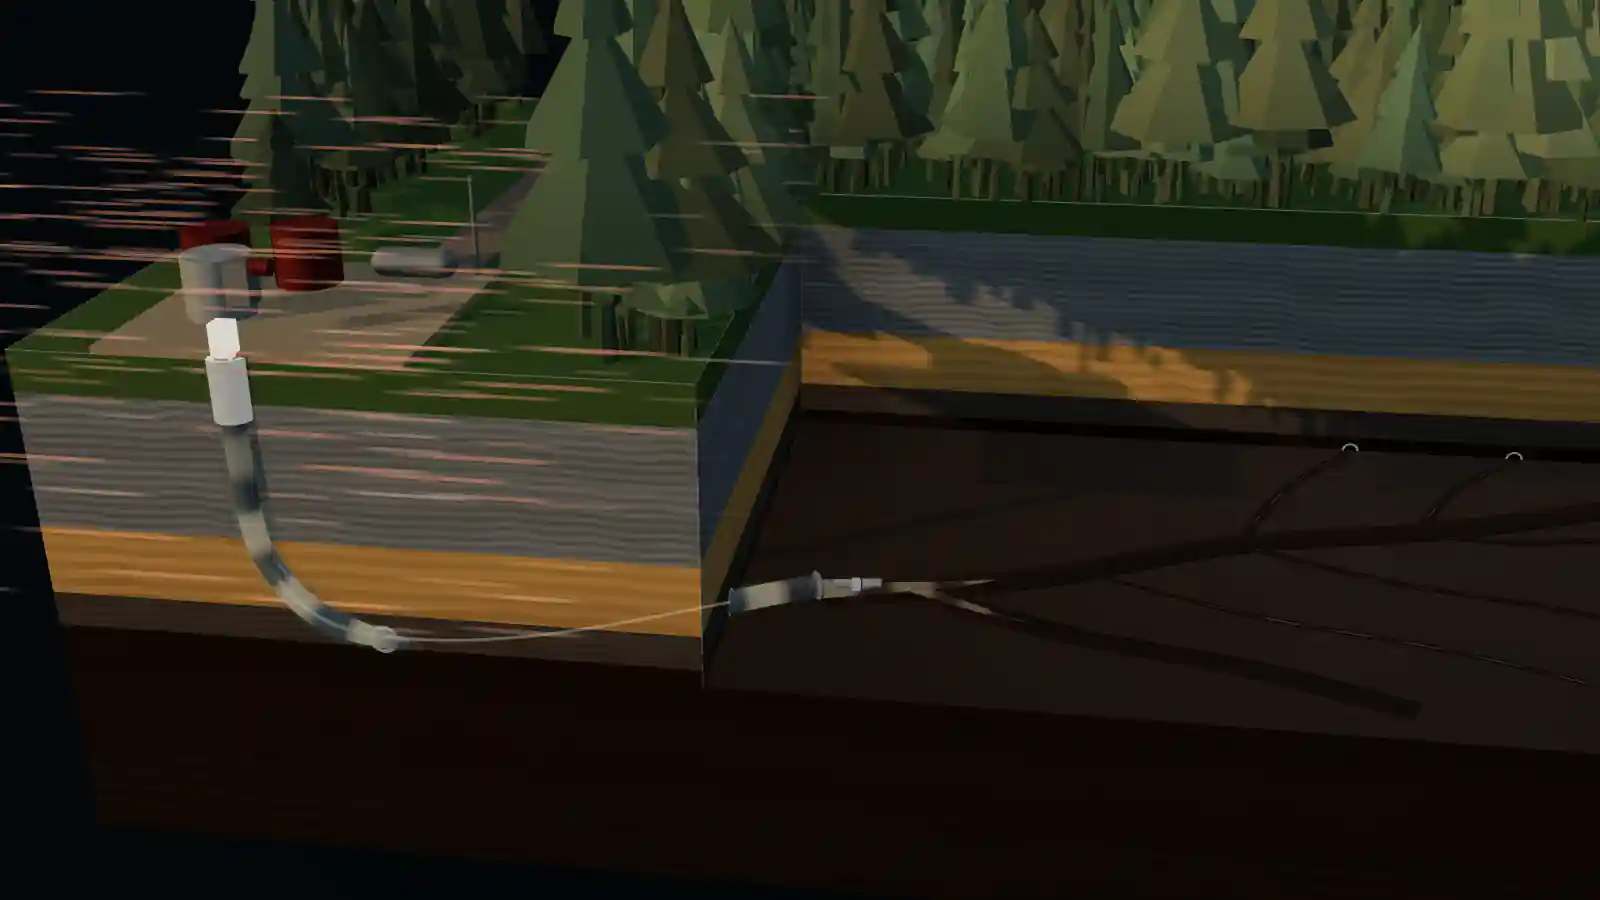
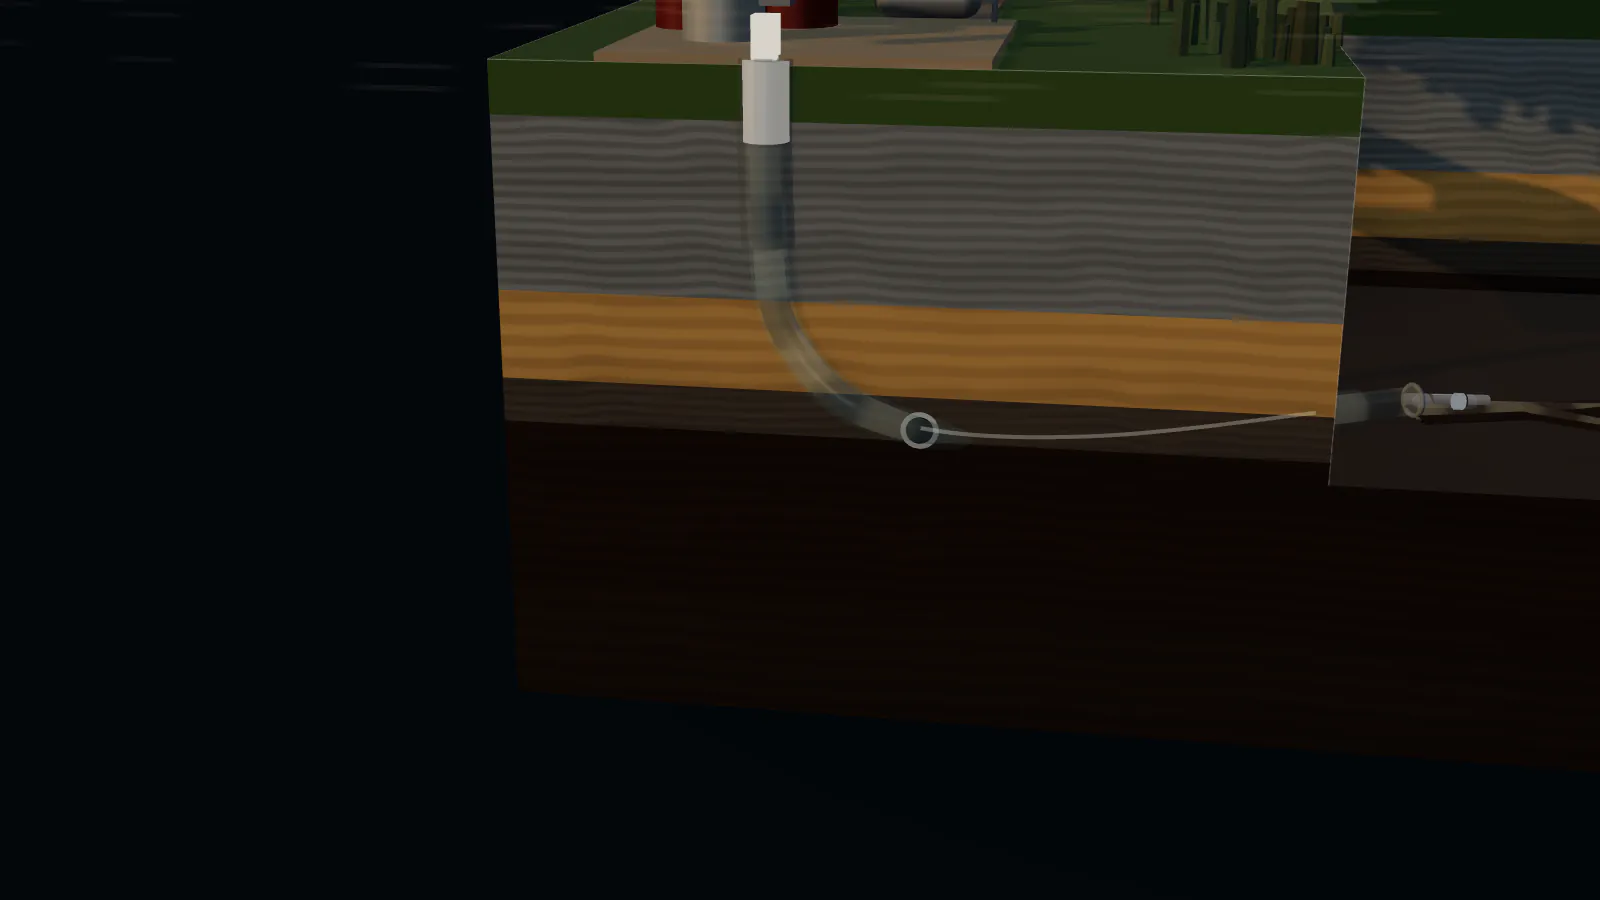
fix(world): round-6 — time-based easing everywhere (the loop drew ~40 % while the caption said closed), fit pose frames BOTH verdict placements (pose search), the candle casts a tight local light, standoff label hides when its line is off-screen, golden hour is authored rather than left to the 12 s 

diff --git a/src/world/island.js b/src/world/island.js
@@ -74,13 +74,21 @@ export function buildIsland({ tier = 'high', view = DEFAULT_WELLFI_VIEW } = {}) 
   let compact = false;
 
   // channels: { light, cutaway, candle, field, wind, flow, fog }
+  let lastElapsed = 0;
   function update(t, elapsed, channels, { reducedMotion = false } = {}) {
     const s = cycleState(t);
+    // Real elapsed time between frames: assuming 1/60 made every eased world state frame-rate dependent, so on a
+    // software renderer or a slow phone they converged an order of magnitude too slowly (round 6).
+    const dt = lastElapsed ? Math.min(0.25, Math.max(0, elapsed - lastElapsed)) : 1 / 60;
+    lastElapsed = elapsed;
     state.cycle = s;
     state.elapsed = elapsed;
     const L = channels.light;
-    sun.intensity = 0.1 + 2.7 * L * (0.55 + 0.45 * s.sun);
-    hemi.intensity = 0.16 + 0.75 * L * (0.6 + 0.4 * s.sky) + 0.05;
+    // Golden hour is an authored light, not a lottery: the 12 s ambient cycle used to swing the key by 45 %, so the
+    // hero could be seen (and captured) at a dim phase — measured darker than the deliberately darkest chapter
+    // (round 6). The cycle now shapes the light; it no longer decides it.
+    sun.intensity = 0.1 + 3.6 * L * (0.82 + 0.18 * s.sun);
+    hemi.intensity = 0.16 + 0.95 * L * (0.78 + 0.22 * s.sky) + 0.05;
     rim.intensity = 0.12 + 0.26 * (1 - L); // the rim separates silhouettes; it must not become the key light as L → 0 (round 5)
     const flow = channels.flow ?? L;
     const flowTime = elapsed % 20;
@@ -91,12 +99,12 @@ export function buildIsland({ tier = 'high', view = DEFAULT_WELLFI_VIEW } = {}) 
     casedFlow.setCutaway(1 - 0.72 * cut, cut < 0.05);
     tool.update(channels.candle, state.toolFocus);
     field.setReveal(channels.field);
-    field.update(1 / 60, elapsed);
+    field.update(dt, elapsed);
     forest.uniforms.wind.value = channels.wind;
     forest.uniforms.windTime.value = elapsed;
     wind.update(elapsed, channels.wind);
     // candle boost from the qualifier verdict (world:candle) decays on its own
-    if (state.candleBoost > 0) { state.candleBoost = Math.max(0, state.candleBoost - 0.004); tool.update(Math.min(1, channels.candle + state.candleBoost), state.toolFocus); }
+    if (state.candleBoost > 0) { state.candleBoost = Math.max(0, state.candleBoost - dt * 0.24); tool.update(Math.min(1, channels.candle + state.candleBoost), state.toolFocus); }
     if (!reducedMotion) {
       const idleY = Math.sin(elapsed * 0.18) * (compact ? 0.018 : 0.026);
       const idleX = Math.sin(elapsed * 0.13 + 0.8) * (compact ? 0.006 : 0.01);

diff --git a/src/chapters.js b/src/chapters.js
@@ -8,7 +8,7 @@
 // candle 0..1 (collar glow) · field 0..1 (section-plane field reveal) · wind 0..1 · flow 0..1 (chevrons) ·
 // fog 0..1
 export const CHAPTERS = [
-  { id: 'surface',    section: '.hero',              dwell: 1.0, world: { light: 0.85, cutaway: 0.0, candle: 0.1,  field: 0.0, wind: 0.6, flow: 0.25, fog: 0.0 } },
+  { id: 'surface',    section: '.hero',              dwell: 1.0, world: { light: 1.0,  cutaway: 0.0, candle: 0.1,  field: 0.0, wind: 0.6, flow: 0.25, fog: 0.0 } },
   { id: 'descent',    section: '[data-chapter="descent"]',    dwell: 1.5, world: { light: 0.38, cutaway: 0.6, candle: 0.12, field: 0.0, wind: 0.2, flow: 0.3, fog: 0.02 } },
   { id: 'tool',       section: '[data-chapter="tool"]',       dwell: 1.4, world: { light: 0.24, cutaway: 0.85, candle: 0.12, field: 0.0, wind: 0.05, flow: 0.2, fog: 0.03 } },
   { id: 'signal',     section: '[data-chapter="signal"]',     dwell: 1.6, world: { light: 0.03, cutaway: 0.9, candle: 1.0,  field: 1.0, wind: 0.0, flow: 0.0, fog: 0.05 } },
@@ -30,7 +30,7 @@ export const POSES = [
   { id: 'deployment-a', position: [-0.8, -0.4, 12.3], target: [-6.0, -2.1, 5.4],  fov: 26, mobile: { position: [-1.6, -1.2, 12.5], target: [-4.4, -3.4, 5.2], fov: 34 } }, // the instrument: cased string u 0.3–0.55 on the front face, landing right of centre (round 2)
   { id: 'deployment-b', position: [4.6, 1.2, 15.8],   target: [0.6, -2.5, 2.4],   fov: 28, mobile: { position: [4.0, 2.0, 21.0], target: [0.4, -2.8, 2.4], fov: 38 } },
   { id: 'yotin',        position: [-6.5, 8.0, 15.0],  target: [-4.6, -0.3, 3.6],  fov: 34, mobile: { position: [-6.0, 5.8, 19.5], target: [-4.6, -1.2, 3.6], fov: 44 } }, // the pad + wind in the upper 60 vh band, paper below (round 2) // lower, flatter: the island low in the rise band, strokes read as wind over the pad (round 2)
-  { id: 'fit',          position: [1.6, -0.3, 12.8],  target: [-3.0, -2.3, 4.4],  fov: 30, mobile: { position: [1.8, 0.2, 16.5], target: [-2.1, -2.7, 4.4], fov: 44 } }, // mobile: heel + collar inside the band, not cropped at the right edge (round 5)
+  { id: 'fit',          position: [-3.0, 1.5, 17.0],  target: [-5.0, -2.5, 5.0],  fov: 26, mobile: { position: [-2.6, 1.9, 20.5], target: [-4.6, -2.9, 5.0], fov: 36 } }, // BOTH proposed placements are framed in the free right column — inside-the-tubing (-3.83,-2.38,4.86) and the open-hole anchor (-0.67,-2.45,3.32) — so the verdict's candle never lands behind the qualifier column (pose search, round 6)
 ];
 
 export const CHAPTER_IDS = CHAPTERS.map((c) => c.id);

diff --git a/src/world/wellfiTool.js b/src/world/wellfiTool.js
@@ -82,6 +82,13 @@ export function buildWellFiTool(placement, { glowColor = COLORS.emGlow } = {}) {
   halo.scale.setScalar(0.9); halo.position.x = L * 0.16; halo.renderOrder = 27; halo.name = 'collar-halo';
   group.add(halo);
 
+  // A candle that lights nothing is a decal. This is a TIGHT local light — 0.55 units of reach, so it kisses the
+  // rock immediately around the collar and cannot throw the cone that got the first point light deleted (round 1
+  // removed a 1.8-unit light that read as a downward beam; round 6 asked for the light back, small).
+  const glowLight = new THREE.PointLight(glowColor, 0, 0.55, 2.4);
+  glowLight.position.x = L * 0.16;
+  group.add(glowLight);
+
   function update(boost, focus) {
     const k = Math.max(EMBER, boost);
     const sig = smooth(0.28, 0.55, k);              // 0 = sand (rest/ember), 1 = cyan (transmission)
@@ -96,6 +103,10 @@ export function buildWellFiTool(placement, { glowColor = COLORS.emGlow } = {}) {
     ringMatA.color.copy(glow); ringMatB.color.copy(glow);
     const ringOpacity = (0.04 + 0.24 * focus) * (0.55 + 0.45 * sig);
     ringMatA.opacity = ringOpacity; ringMatB.opacity = ringOpacity;
+    // the local light only exists once the collar is genuinely transmitting, and stays weak
+    glowLight.color.copy(glow);
+    glowLight.intensity = 0.55 * sig * k;
+    glowLight.visible = glowLight.intensity > 0.02;
     // draw-call diet: near-invisible emphasis geometry is not submitted (phone tier budget)
     inspectionSleeve.visible = inspectionSleeveMat.opacity > 0.03;
     ringA.visible = ringB.visible = ringOpacity > 0.05;

diff --git a/src/ui/signal.js b/src/ui/signal.js
@@ -107,7 +107,15 @@ export function mountSignal() {
       if (Math.abs(e.clientX - lastX) > 3 || Math.abs(e.clientY - lastY) > 3) { moved = true; lastX = e.clientX; lastY = e.clientY; clearTimeout(dwellTimer); dwellTimer = setTimeout(() => { if (moved) { circuit.probe(w.camera, canvas, lastX, lastY); w.requestRender(); moved = false; } }, 200); }
     }, { passive: true });
     // Per-frame loop draw
-    const tick = () => { circuit.update(1 / 60); requestAnimationFrame(tick); };
+    // Real elapsed time, not an assumed 1/60: on a software renderer or a slow phone the loop had drawn only ~40 %
+    // of its length by the time the caption already claimed the circuit was closed (round 6).
+    let lastTick = 0;
+    const tick = (now) => {
+      const dt = lastTick ? Math.min(0.25, (now - lastTick) / 1000) : 1 / 60;
+      lastTick = now;
+      circuit.update(dt);
+      requestAnimationFrame(tick);
+    };
     requestAnimationFrame(tick);
     reflect();
   }

diff --git a/src/world/toolViz.js b/src/world/toolViz.js
@@ -358,6 +358,13 @@ export function createToolViz(world) {
       if (behind) { x = W - x; y = H - y; }
       const minX = (W > 1100 ? 210 : 16) + 90, maxX = W - 110, minY = 84 + 40, maxY = H - 24;
       const el = cap.el;
+      // The standoff caption labels a specific line: if that line is not on screen the label is pointing at
+      // nothing, so it hides rather than clamping to an edge (round 6).
+      if (cap === standoffCaption) {
+        const off = behind || x < minX - 40 || x > maxX + 40 || y < minY || y > maxY;
+        el.style.visibility = off ? 'hidden' : '';
+        if (off) continue;
+      }
       if (cap.side) {
         // level labels: flush right of the rule's end, never clamped — hidden when the point is off-screen or behind
         const off = behind || x < minX - 60 || x > maxX || y < minY || y > maxY;
